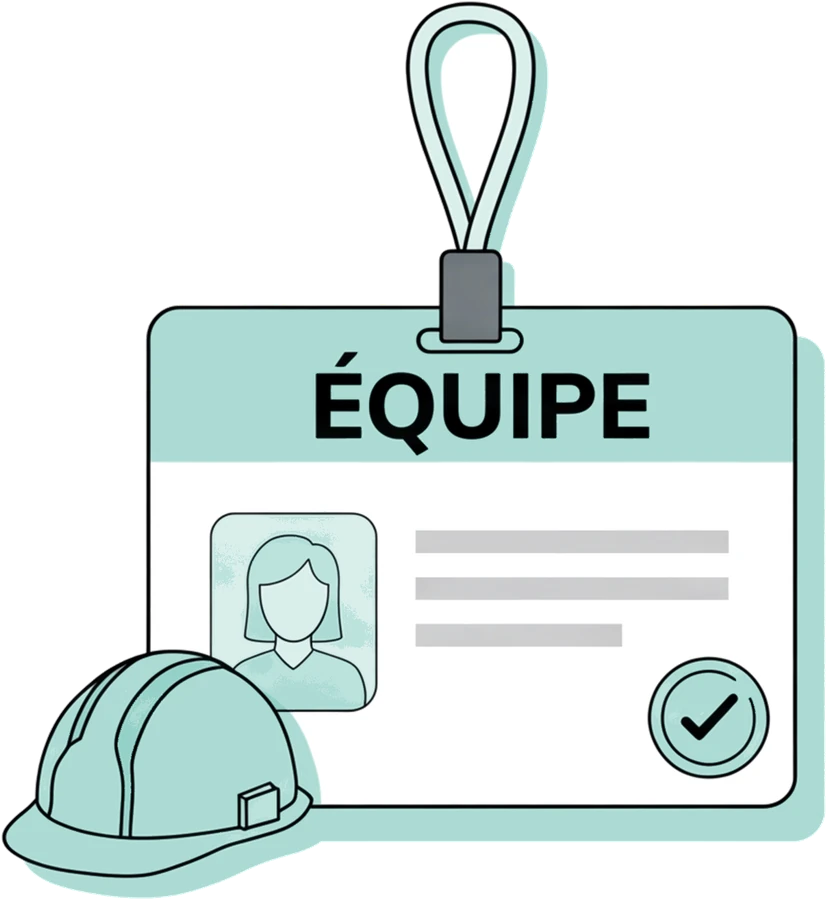
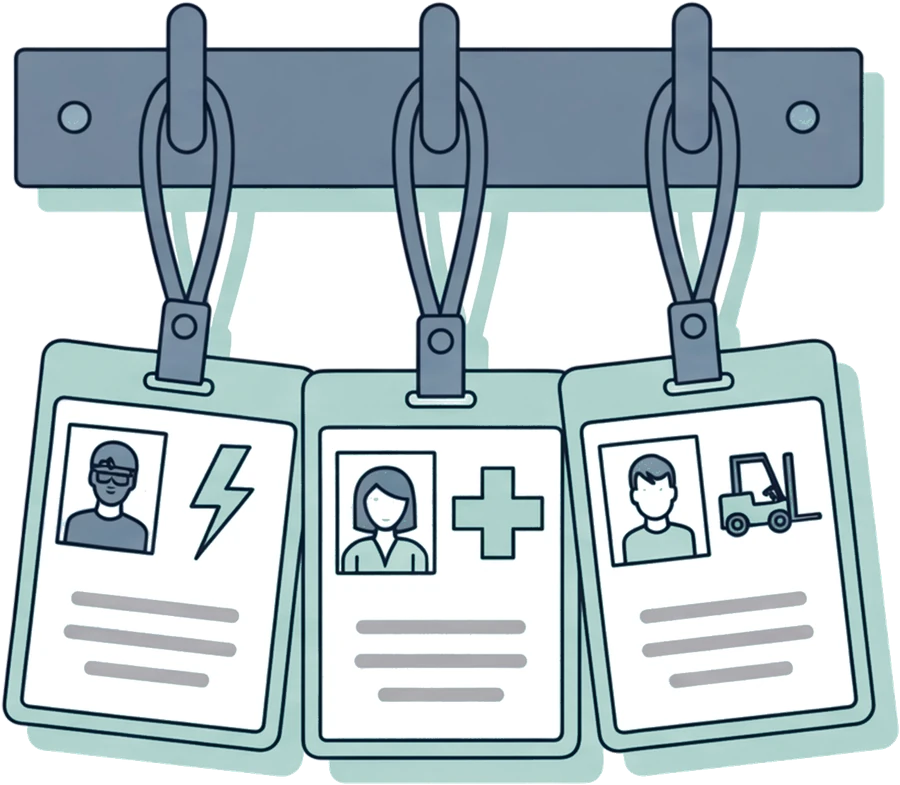
En-têtes Santé-sécurité : scènes détaillées, sans texte
Retours de la propriétaire du 2026-11-18 : écrire le nom de la page en
gros n'était pas subtil, l'objet générique faisait clipart. Nouvelle
planche (même méthode, référence : À faire seul) où la scène dit la page :
les trois risques cotés du DUERP, les badges et leurs titres, le permis
signé, les deux entreprises et la zone de travail du plan de prévention.

Recoloration sans aplatir les tons : papier remis en blanc, eau un peu
moins saturée que le fond (S 0,28), grain de l'ardoise lissé.

diff --git a/src/components/entete-page/illustrations/PlansPrevention.tsx b/src/components/entete-page/illustrations/PlansPrevention.tsx
@@ -1,18 +1,18 @@
 import { ImageEnTete } from "./ImageEnTete";
 
 /**
- * Le « Plan de prévention », une poignée de mains et deux lignes de signature
- * — l'entreprise utilisatrice et l'entreprise extérieure —, devant une
- * barrière de chantier. Planche Santé-sécurité, choisie par la propriétaire
- * le 2026-11-18.
+ * Le plan de prévention : deux entreprises reliées, le plan de la zone de
+ * travail hachurée, les deux signatures — l'entreprise utilisatrice et
+ * l'entreprise extérieure —, une barrière de chantier devant. Planche
+ * Santé-sécurité, choisie par la propriétaire le 2026-11-18.
  */
 export function IllustrationPlansPrevention() {
   return (
     <ImageEnTete
       src="/illustrations/entetes/plan-prevention.webp"
-      width={642}
+      width={688}
       height={900}
-      className="w-[clamp(180px,17vw,243px)]"
+      className="w-[clamp(193px,18vw,260px)]"
     />
   );
 }

diff --git a/src/components/entete-page/illustrations/Duerp.tsx b/src/components/entete-page/illustrations/Duerp.tsx
@@ -1,17 +1,18 @@
 import { ImageEnTete } from "./ImageEnTete";
 
 /**
- * Le classeur « DUERP » : la grille de cotation sur la couverture, du risque
- * le plus faible au plus fort, un crayon posé dessus — le document se tient
- * à jour. Planche Santé-sécurité, choisie par la propriétaire le 2026-11-18.
+ * La fiche d'évaluation : trois risques (glissade, coupure, port de charge),
+ * chacun avec sa cotation en pastilles, un crayon posé dessus — le document
+ * se tient à jour. Planche Santé-sécurité, choisie par la propriétaire le
+ * 2026-11-18 : aucun texte, la scène dit la page.
  */
 export function IllustrationDuerp() {
   return (
     <ImageEnTete
       src="/illustrations/entetes/duerp.webp"
-      width={749}
+      width={719}
       height={900}
-      className="w-[clamp(210px,20vw,283px)]"
+      className="w-[clamp(202px,19vw,272px)]"
     />
   );
 }

diff --git a/src/components/entete-page/illustrations/Equipe.tsx b/src/components/entete-page/illustrations/Equipe.tsx
@@ -1,17 +1,18 @@
 import { ImageEnTete } from "./ImageEnTete";
 
 /**
- * Le badge « Équipe » à son cordon, un casque devant : la personne et ce
- * qu'elle est habilitée à faire. Planche Santé-sécurité, choisie par la
- * propriétaire le 2026-11-18.
+ * Trois badges à leur portant, chacun avec le pictogramme d'un titre
+ * (habilitation électrique, secourisme, conduite d'engins) : un titre est
+ * porté par une personne, pas par un poste. Planche Santé-sécurité, choisie
+ * par la propriétaire le 2026-11-18.
  */
 export function IllustrationEquipe() {
   return (
     <ImageEnTete
       src="/illustrations/entetes/equipe.webp"
-      width={827}
-      height={900}
-      className="w-[clamp(232px,22vw,312px)]"
+      width={900}
+      height={785}
+      className="w-[clamp(290px,27vw,390px)]"
     />
   );
 }

diff --git a/src/components/entete-page/illustrations/PermisFeu.tsx b/src/components/entete-page/illustrations/PermisFeu.tsx
@@ -1,17 +1,17 @@
 import { ImageEnTete } from "./ImageEnTete";
 
 /**
- * La fiche « Permis de feu » : la flamme, les lignes à remplir, les cases des
- * signatures, et l'extincteur qui doit être là pendant le travail par point
- * chaud. Planche Santé-sécurité, choisie par la propriétaire le 2026-11-18.
+ * Le permis de feu sur son porte-bloc : la flamme, les lignes à remplir, les
+ * deux cases signées. Planche Santé-sécurité, choisie par la propriétaire le
+ * 2026-11-18.
  */
 export function IllustrationPermisFeu() {
   return (
     <ImageEnTete
       src="/illustrations/entetes/permis-feu.webp"
-      width={604}
+      width={560}
       height={900}
-      className="w-[clamp(170px,16vw,228px)]"
+      className="w-[clamp(157px,15vw,212px)]"
     />
   );
 }
